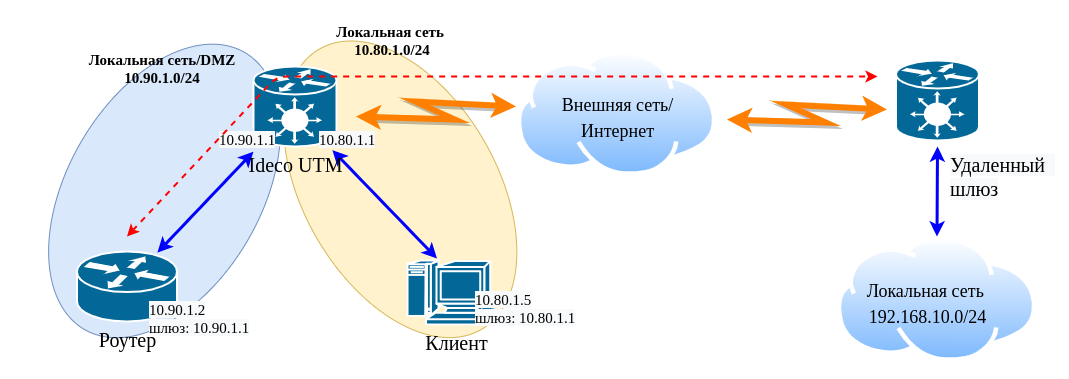
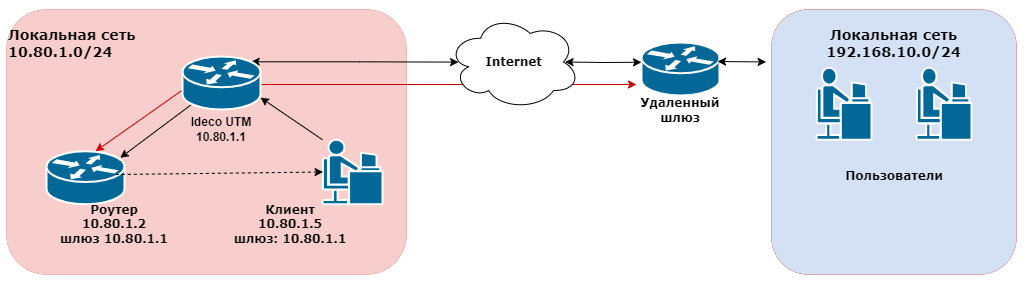
ICS-32088 УТМ. Вычитать статью Доступ в удаленные сети через роутер в локальной сети

diff --git a/recipes/popular-recipes/access-to-remote-networks.md b/recipes/popular-recipes/access-to-remote-networks.md
@@ -1,54 +1,144 @@
-# Доступ в удаленные сети через роутер в локальной сети
+# Как избавиться от асимметричной маршрутизации трафика
 
-## Избавление от непосредственной маршрутизации между роутером и хостами локальной сети.
+Часто при попытке настроить доступ в удаленные сети через роутер в локальной сети возникает асимметричная маршрутизация. Она делает прохождение пакетов между двумя локальными сетями невозможной. В этой статье описаны случаи возникновения асимметричной маршрутизации и способы от нее избавиться.
 
-Допустим, в локальной сети NGFW есть роутер, устанавливающий связь с другими сетями (часто с помощью туннеля). NGFW является шлюзом по умолчанию для клиентов сети. Требуется настроить маршрутизацию на NGFW так, чтобы клиенты получали доступ в удаленную сеть через роутер. Для этого роутер и клиенты локальной сети NGFW должны находиться в разных подсетях. Иначе возникнет эффект асимметричной маршрутизации, при которой часть трафика от клиентов до роутера пойдет через шлюз, а часть будет идти непосредственно от роутера абонентам сети. Разная маршрутизация на разных участках прохождения трафика сделает прохождение пакетов между двумя локальными сетями невозможной.
+## Асимметричная маршрутизация при наличии роутера в локальной сети
 
-**Вариант неправильной топологии подобной сети**, при которой возникает непосредственная или асимметричная маршрутизация между роутером и клиентами локальной сети:
+Допустим, в локальной сети NGFW есть роутер, устанавливающий связь с другими сетями. NGFW - шлюз по умолчанию для клиентов сети. Требуется настроить маршрутизацию на NGFW так, чтобы клиенты сети `10.80.1.0/24` получали доступ в удаленную сеть `192.168.10.0/24` и обратно через роутер.
 
-Ideco NGFW является шлюзом для локальной сети `10.80.1.0/24`. В этой сети имеется роутер с IP-адресом `10.80.1.2`, который имеет доступ в удаленную сеть `192.168.10.0/24`. Требуется обеспечить доступ хостов сети `10.80.1.0/24` в сеть `192.168.10.0/24` и обратно.
+Пример **неправильной** топологии сети:
 
-![](../../.gitbook/assets/nets-var1.png)
+![](../../.gitbook/assets/nets-var2-ngfw.png)
 
-Красной стрелкой обозначена двусторонняя связь роутера с удаленным шлюзом (или тоже роутером), посредством которой обеспечивается доступ к удаленной сети `192.168.10.0/24`. Это может быть туннель к шлюзу, расположенному в сети интернет или маршрут до роутера в соседнюю сеть предприятия.
+Здесь:
 
-Синими стрелками обозначены участки прохождения трафика от хостов локальной сети NGFW `10.80.1.0/24` до удаленной сети `192.168.10.0/24` через шлюз NGFW c IP-адресом `10.80.1.1`, а затем - через роутер с IP-адресом `10.80.1.2`, а также участок возвращаемого хостам локальной сети трафика от роутера мимо NGFW.
+* Ideco NGFW - шлюз для локальной сети `10.80.1.0/24`.
+* `10.80.1.2` - роутер, который имеет доступ в удаленную сеть `192.168.10.0/24`. 
+* Красная стрелка - двусторонняя связь роутера с удаленным шлюзом (или тоже роутером), которая обеспечивает доступ к удаленной сети `192.168.10.0/24` (туннель к шлюзу, расположенному в интернете, или маршрут до роутера в соседнюю сеть предприятия).
+* Черные стрелки - трафик от хостов локальной сети `10.80.1.0/24` до удаленной сети `192.168.10.0/24` - через шлюз NGFW (`10.80.1.1`) и роутер (`10.80.1.2`). 
+* Пунктирная стрелка - участок трафика, который роутер возвращает хостам локальной сети, минуя NGFW, что приводит к непринятию такого трафика хостами локальной сети.
 
-Чтобы схема работала правильно необходимо: 
-
-1. Вынести роутер в отдельную локальную сеть (DMZ) (например, `10.90.1.0/24`), чтобы избежать непосредственной маршрутизации между роутером и клиентами локальной сети. 
-2. Настроить DMZ на NGFW, добавив еще один IP-адрес на локальный интерфейс NGFW `10.90.1.1/24`, к локальной сети которого подключен роутер. 
-3. На роутере настроить IP-адрес из адресного пространства новой сети `10.90.1.2`. Шлюзом указать дополнительный IP-адрес, настроенный на локальном интерфейсе NGFW из этой сети `10.90.1.1`.
-
-Физически роутер и клиенты локальной сети будут находиться в одном сегменте, имея при этом разную IP-адресацию и шлюзы.
-
-Также можно физически изолировать локальную сеть клиентов NGFW и роутер, подключив к Ideco NGFW дополнительную сетевую карту. Настроить на ней дополнительный локальный интерфейс и отдельную IP-адресацию в этой сети. Шлюзом для роутера будет являться адрес, настроенный на дополнительном локальном интерфейсе.
-
-Физически роутер будет находиться в сегменте дополнительной сетевой карты. Но, как правило, схемы с виртуальной изоляцией сетей на основе одного физического интерфейса достаточно.
-
-Топология сети после организации DMZ на основе создания дополнительной сети `10.90.1.0/24` на локальном интерфейсе NGFW представлена на схеме ниже:
-
-![](../../.gitbook/assets/nets-var2.png)
-
-## Необходимые настройки на NGFW
-
-Настройка нескольких виртуальных локальных сетей на одном физическом локальном интерфейсе NGFW производится в разделе **Сервисы -> Сетевые интерфейсы** и выглядит следующим образом:
-
-![](../../.gitbook/assets/intarface\_0002.png)
-
-После изоляции роутера в DMZ нужно указать маршрут на NGFW до удаленной сети.
-
-Локальная сеть клиентов имеет адресацию `10.80.1.0/24`, адрес роутера в DMZ - `10.90.1.2`, а удаленная сеть, к которой у роутера есть доступ, имеет адресацию `192.168.10.0/24`. В данном случае маршрут на NGFW будет иметь следующие параметры:
-
-* **Назначение (DST)**: 192.168.10.0/24;
-* **Шлюз**: 10.90.1.2.
-
-Также можно добавить **Источник (SRC)**, в нашем случае `10.80.1.0/24`, но это не обязательно. Теперь трафик между сетями NGFW (`10.80.1.0/24` и `192.168.10.0/24`) во всех направлениях будет направляться через NGFW и роутер.
-
-{% hint style="info" %}
-Всегда избегайте указания сети `0.0.0.0/0` в маршрутах.
+{% hint style="warning" %}
+Часть трафика от клиентов до роутера идет через шлюз, а часть - непосредственно от роутера абонентам сети. Разная маршрутизация на разных участках делает прохождение пакетов между двумя локальными сетями невозможной.
 {% endhint %}
 
-## Настройки на клиентских машинах
+## Асимметричная маршрутизация при публикации сайтов через DNAT
 
-Хосты сетей, которые теперь обслуживает NGFW, (`10.80.1.0/24` и `10.90.1.0/24`) физически включены в один ethernet-сегмент. Шлюзом и DNS-сервером для хостов этих сетей является соответствующий своей сети адрес на локальном интерфейсе NGFW. Например, для хоста с адресом `10.80.1.10` шлюзом и DNS будет являться `10.80.1.1`, а для хоста с адресом `10.90.1.15` шлюзом и DNS будет являться `10.90.1.1`.
+Аналогичная ситуация складывается, когда в одной локальной сети находится хост и сервер, на котором работает ресурс, опубликованный в интернете при помощи DNAT-правила:
+
+![](../../.gitbook/assets/nets-var11-ngfw.png)
+
+* `188.114.8.8` - адрес сайта в интернете;
+* `10.80.1.1` - адрес Ideco NGFW в локальной сети;
+* `10.80.1.2` - адрес сервера в локальной сети;
+* `10.80.1.5` - адрес хоста в локальной сети;
+* Красная стрелка - ответ напрямую от сервера хосту в локальной сети.
+
+Когда хост `10.80.1.5` обращается на сайт по внешнему адресу `188.114.8.8` (например, в случае обращения по доменному имени, которое резолвится во внешний IP), трафик проходит через NGFW. На NGFW срабатывает правило DNAT и перенаправляет трафик на сервер `10.80.1.2`. Однако сервер отвечает непосредственно хосту в обход NGFW, и ответ не проходит.
+
+## Пример правильной топологии
+
+![](../../.gitbook/assets/nets-var1-ngfw.png)
+
+Чтобы схема работала правильно, нужно: 
+
+1\. Вынести роутер в отдельную локальную сеть (DMZ) (например, `10.90.1.0/24`), чтобы избежать асимметричной маршрутизации между роутером и клиентами локальной сети. 
+
+2\. Настроить DMZ на NGFW, добавив еще один IP-адрес на локальный интерфейс NGFW `10.90.1.1/24`, к локальной сети которого подключен роутер. 
+
+3\. На роутере настроить IP-адрес из адресного пространства новой сети `10.90.1.2`. Шлюзом указать дополнительный IP-адрес, настроенный на локальном интерфейсе NGFW из этой сети `10.90.1.1`.
+
+Физически роутер и клиенты локальной сети будут находиться в одном сегменте, имея при этом разную IP-адресацию и шлюзы. Как правило, схемы с виртуальной изоляцией сетей на основе одного физического интерфейса достаточно.
+
+{% hint style="info" %}
+Также можно физически изолировать локальную сеть клиентов NGFW и роутер. Для этого: 
+
+* Подключите к Ideco NGFW дополнительную сетевую карту.
+* Настройте на ней дополнительный локальный интерфейс и отдельную IP-адресацию в этой сети. 
+* Укажите в качестве шлюза для роутера адрес, настроенный на дополнительном локальном интерфейсе.
+
+Физически роутер будет находиться в сегменте дополнительной сетевой карты.
+{% endhint %}
+
+Чтобы избавиться от асимметричной маршрутизации между клиентами в локальной сети и сервером, нужно выделить в DMZ сервер: 
+
+![](../../.gitbook/assets/nets-var12-ngfw.png)
+
+<details>
+
+<summary>Настройка NGFW</summary>
+
+Чтобы настроить несколько виртуальных локальных сетей на одном физическом локальном интерфейсе NGFW, перейдите в раздел **Сервисы -> Сетевые интерфейсы** и выполните действия:
+
+1\. Откройте в режиме редактирования **Локальный интерфейс**, к которому подключены пользователи нужной вам локальной сети (`10.80.1.1/24`), нажав на ![](../../.gitbook/assets/icon-edit.png) напротив его названия.
+
+2\. Если IP-адрес вашей локальной сети был автоматически сконфигурирован через DHCP, снимите галку и введите его вручную:
+
+![](../../.gitbook/assets/nets-var3.png)
+
+3\. Нажмите на ![](../../.gitbook/assets/nets-var4.png) и введите IP-адрес DMZ для изоляции роутера:
+
+![](../../.gitbook/assets/nets-var5.png)
+
+4\. Нажмите **Сохранить**.
+
+После изоляции роутера в DMZ нужно указать маршрут на NGFW до удаленной сети. Для этого перейдите в **Сервисы -> Маршрутизация** и выполните действия:
+
+1\. Перейдите на вкладку **Внешние сети** нажмите кнопку **Добавить**.
+
+2\. В поле **Адрес источника** выберите **Создать новый объект**, для которого выберите тип **Подсеть** и введите адрес вашей локальной сети (`10.80.1.0/24`):
+
+![](../../.gitbook/assets/nets-var6.png)
+
+Выберите в качестве источника только что созданный объект.
+
+3\. В поле **Адрес назначения** выберите **Создать новый объект**, для которого выберите тип **Подсеть** и введите адрес внешней сети (`192.168.10.0/24`), в которую нужно настроить доступ:
+
+![](../../.gitbook/assets/nets-var7.png)
+
+Выберите в качестве назначения только что созданный объект.
+
+4\. В поле **Шлюз** выберите **Создать новый объект**, для которого выберите тип **IP-адрес** и введите адрес роутера в DMZ (`10.90.1.2`):
+
+![](../../.gitbook/assets/nets-var8.png)
+
+5\. Сохраните маршрут вида:
+
+![](../../.gitbook/assets/nets-var9.png)
+
+Теперь трафик между сетями NGFW (`10.80.1.0/24` и `192.168.10.0/24`) во всех направлениях будет направляться через NGFW и роутер.
+
+</details>
+
+<details>
+
+<summary>Настройка клиентских машин</summary>
+
+Хосты сетей, которые теперь обслуживает NGFW (`10.80.1.0/24` и `10.90.1.0/24`), физически включены в один ethernet-сегмент. Чтобы шлюзом и DNS-сервером для хостов этих сетей был соответствующий адрес на локальном интерфейсе NGFW:
+
+1\. Для хостов из подсети `10.80.1.0/24` укажите шлюзом и DNS-сервером `10.80.1.1`.
+
+2\. Для хостов из подсети `10.90.1.0/24` шлюзом и DNS-сервером укажите `10.90.1.1`.
+
+</details>
+
+{% hint style="warning" %}
+Если по какой-то причине изолировать сервер в DMZ невозможно, создайте на NGFW специальное SNAT-правило.
+{% endhint %}
+
+<details>
+
+<summary>Создание на NGFW SNAT-правила для избавления асимметричной маршрутизации</summary>
+
+Чтобы сервер `10.80.1.2` не отвечал напрямую на `10.80.1.5`, а посылал ответ на NGFW `10.80.1.1`, нужно в разделе **Правила трафика -> Файрвол -> SNAT** создать правило вида:
+
+![](../../.gitbook/assets/nets-var10.png)
+
+Заполните поля:
+
+* Адрес назначения - `10.80.1.2`;
+* Исходящая зона - Локальные интерфейсы;
+  
+В этом случае трафик хоста `10.80.1.5` на внешний адрес сайта `188.114.8.8` будет перенаправлен на адрес сервера `10.80.1.2` правилом DNAT. При этом созданное правило SNAT подменит адрес источника `10.80.1.5` на адрес NGFW, пакет приобретает вид: `scr 10.80.1.1 dst 10.80.1.2`. За счет этого ответ от сервера также пройдет через NGFW, поскольку пакет будет иметь вид: `scr 10.80.1.2 dst 10.80.1.1`.
+
+</details>

diff --git a/settings/publishing-resources/portmapping.md b/settings/publishing-resources/portmapping.md
@@ -42,6 +42,7 @@
 
 * Если на хосте в локальной сети, куда осуществляется проброс порта, шлюзом по умолчанию прописан не Ideco NGFW, то установить подключение не получится. Нужно либо указать шлюзом по умолчанию IP-адрес локального интерфейса Ideco NGFW, либо, если подключение происходит с какого-то определенного IP-адреса (сети), на устройстве прописать маршрут, чтобы ответы для этого IP-адреса (сети) направлялись через IP-адрес локального интерфейса Ideco NGFW;
 * Если включен режим **Разрешить интернет всем**, то правила файрвола, включая таблицу DNAT, не работают.
+* Если в одной локальной сети находятся пользователи и сервер, на котором работает ресурс, опубликованный в интернете при помощи DNAT-правила, может возникать асимметричная маршрутизация. Чтобы этого избежать, изучите статью [Как избавиться от асимметричной маршрутизации трафика](../../recipes/popular-recipes/access-to-remote-networks.md) 
 
 </details>
 
@@ -51,8 +52,8 @@
 
 * Проверять работу правила DNAT нужно из внешней сети Интернет. Используйте обратный прокси-сервер для публикации веб-ресурсов, если необходим доступ из локальной сети;
 * Порт на внешнем интерфейсе сервера, с которого будут транслироваться запросы, может отличаться от публикуемого порта самой службы. Например, можно транслировать внешние запросы на порт 4489, а в локальную сеть на порт 3389, чтобы воспрепятствовать автоматическим попыткам подключения вредоносного ПО на популярный сервис;
-* Также, в целях защиты от нежелательных подключений к публикуемой службе, при создании правила рекомендуется указывать IP-адрес или подсеть, с которой разрешено подключаться к публикуемой службе в поле **Источник**;
-* Если осуществляется трансляция на один и тот же номер порта локального сервера, то можно оставить пустым поле **Cменить IP-адрес назначения**. Система автоматически переадресует запрос на соответствующий порт устройства в локальной сети.
+* Для защиты от нежелательных подключений к публикуемой службе при создании правила  в поле **Источник** указывайте IP-адрес или подсеть, с которой разрешено подключаться к этой службе;
+* Если осуществляется трансляция на один и тот же номер порта локального сервера, то можно оставить пустым поле **Сменить порт назначения**. Система автоматически переадресует запрос на соответствующий порт устройства в локальной сети.
 
 </details>
 

diff --git a/settings/users/authorization/vpn-connection/features.md b/settings/users/authorization/vpn-connection/features.md
@@ -49,3 +49,40 @@
 
 * Убедитесь, что VPN-сети двух NGFW не пересекаются;
 * Проверьте настройки основного NGFW, обратившись к [статье](../../../services/ipsec/site-to-site/ipsec-utm-to-utm-tunnel.md).
+
+## Если за NGFW есть маршрутизатор, выступающий в качестве ядра локальной сети
+
+![](../../../../.gitbook/assets/features6-ngfw.png)
+
+Если между NGFW и хостами локальной сети в качестве ядра сети присутствует роутер, клиенты из VPN-сети не смогут получить доступ к хостам этой локальной сети, даже если на NGFW создано правило маршрутизации:
+
+![](../../../../.gitbook/assets/features4.png)
+
+* `192.168.0.0/24` - сеть за роутером, к которой требуется получить доступ из VPN-сети;
+* `172.16.0.2` - адрес роутера в локальной сети NGFW.
+
+Причина в том, что хост (`192.168.0.10`) получает пакеты из VPN-сети с адресом источника `src 10.128.0.1`. Ответ с адресом назначения `dst 10.128.0.1` попадает на роутер, но у роутера отсутствует маршрут до указанной сети и трафик не проходит.
+
+Чтобы обеспечить доступ, нужно настроить на роутере маршрут от нужной локальной сети до VPN-сети. Для этого укажите в качестве назначения VPN-сеть (`10.128.0.0\16`), в качестве шлюза - NGFW (`172.16.0.1`).
+
+Если настроить на роутере маршрут невозможно, можно создать на NGFW SNAT-правило вида:
+
+![](../../../../.gitbook/assets/features5.png)
+
+Для этого: 
+
+1\. Перейдите в раздел **Правила трафика -> Файрвол -> SNAT** и нажмите **Добавить**. 
+
+2\. Укажите следующие параметры:
+
+* Источник - VPN-сеть (`10.128.0.0\16`);
+* Назначение - сеть за роутером, к которой требуется получить доступ из VPN-сети (`192.168.0.0/24`);
+* Шлюз - локальный адрес NGFW (`172.16.0.1`).
+
+3\. Нажмите **Сохранить**.
+
+В этом случае при отправке пакетов на роутер NGFW подменит IP-адрес источника своим. За счет этого роутер направит ответ от хоста в локальной сети на NGFW, который затем перенаправит его в VPN-сеть. 
+
+{% hint style="warning" %}
+При этом у хостов из локальной сети `192.168.0.0/24` не будет доступа к VPN-сети `10.128.0.0\16`.
+{% endhint %}

diff --git a/SUMMARY.md b/SUMMARY.md
@@ -183,7 +183,7 @@
     * [Создание VPN-подключения на мобильных устройствах](recipes/popular-recipes/vpn/connection-for-mobile-devices.md)
     * [Создание подключения в Mac OS](recipes/popular-recipes/vpn/connection-for-high-sierra-macos.md)
     * [Подключение по SSTP Wi-Fi роутеров Keenetic](recipes/popular-recipes/vpn/sstp-connecting-keenetic-wi-fi-routers.md)
-  * [Доступ в удаленные сети через роутер в локальной сети](recipes/popular-recipes/access-to-remote-networks.md)
+  * [Как избавиться от асимметричной маршрутизации трафика](recipes/popular-recipes/access-to-remote-networks.md)
   * [Что делать если ваш IP попал в черные списки DNSBL](recipes/popular-recipes/dnsbl-list.md)
   * [Как восстановить доступ к Ideco NGFW](recipes/popular-recipes/restore-access-to-ideco-utm.md)
   * [Как восстановиться на прошлую версию после обновления Ideco NGFW](recipes/popular-recipes/go-back.md)
